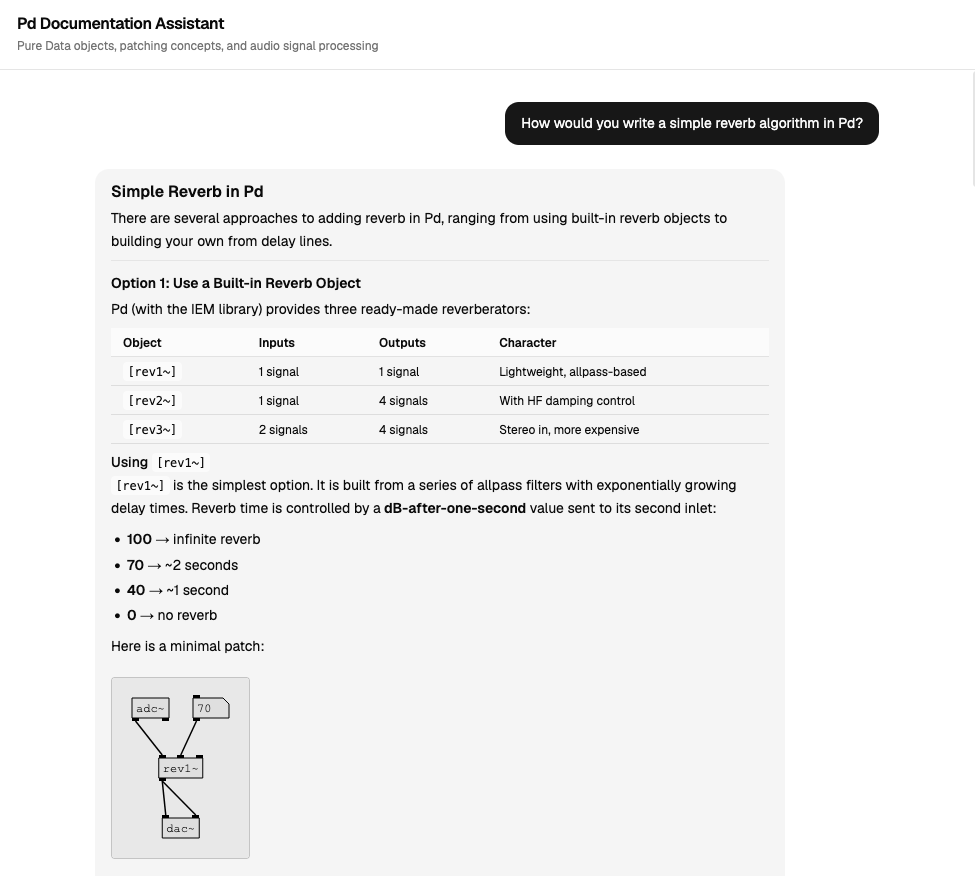
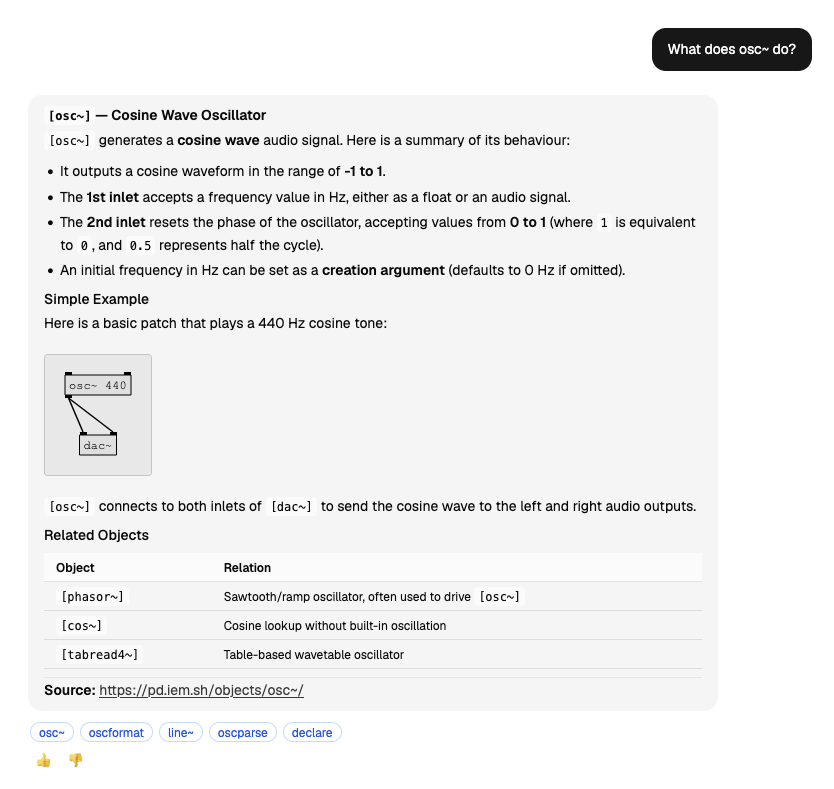
Update screenshot and chat frame styling

diff --git a/frontend/src/App.tsx b/frontend/src/App.tsx
@@ -66,7 +66,7 @@ export default function App() {
 
   return (
     <div className="flex flex-col h-screen bg-background">
-      <header className="border-b-2 border-[#707070] dark:border-[#3a3a3a] bg-[#909090] dark:bg-[#2a2a2a] px-6 py-4 shrink-0">
+      <header className="border-b-2 border-[#d0d0d0] dark:border-[#3a3a3a] bg-[#f0f0f0] dark:bg-[#2a2a2a] px-6 py-4 shrink-0">
         <h1 className="text-base font-semibold tracking-tight">Pd Documentation Assistant</h1>
         <p className="text-xs text-muted-foreground mt-0.5">
           Pure Data objects, patching concepts, and audio signal processing. Built by Trevor Wilson. 
@@ -98,7 +98,7 @@ export default function App() {
         </div>
       </ScrollArea>
 
-      <form onSubmit={handleSubmit} className="border-t-2 border-[#707070] dark:border-[#3a3a3a] bg-[#909090] dark:bg-[#2a2a2a] px-4 py-3 shrink-0">
+      <form onSubmit={handleSubmit} className="border-t-2 border-[#d0d0d0] dark:border-[#3a3a3a] bg-[#f0f0f0] dark:bg-[#2a2a2a] px-4 py-3 shrink-0">
         <div className="max-w-[816px] mx-auto flex items-end gap-2">
           <Textarea
             ref={textareaRef}
@@ -109,7 +109,7 @@ export default function App() {
             disabled={loading}
             autoFocus
             rows={1}
-            className="flex-1 resize-none overflow-y-hidden max-h-[8rem] min-h-0 py-2 leading-relaxed"
+            className="flex-1 resize-none overflow-y-hidden max-h-[8rem] min-h-0 py-2 leading-relaxed bg-[#fff] dark:bg-[#1a1a1a] border-[#d0d0d0] dark:border-[#3a3a3a]"
           />
           <Button type="submit" disabled={loading || !input.trim()}>
             Send